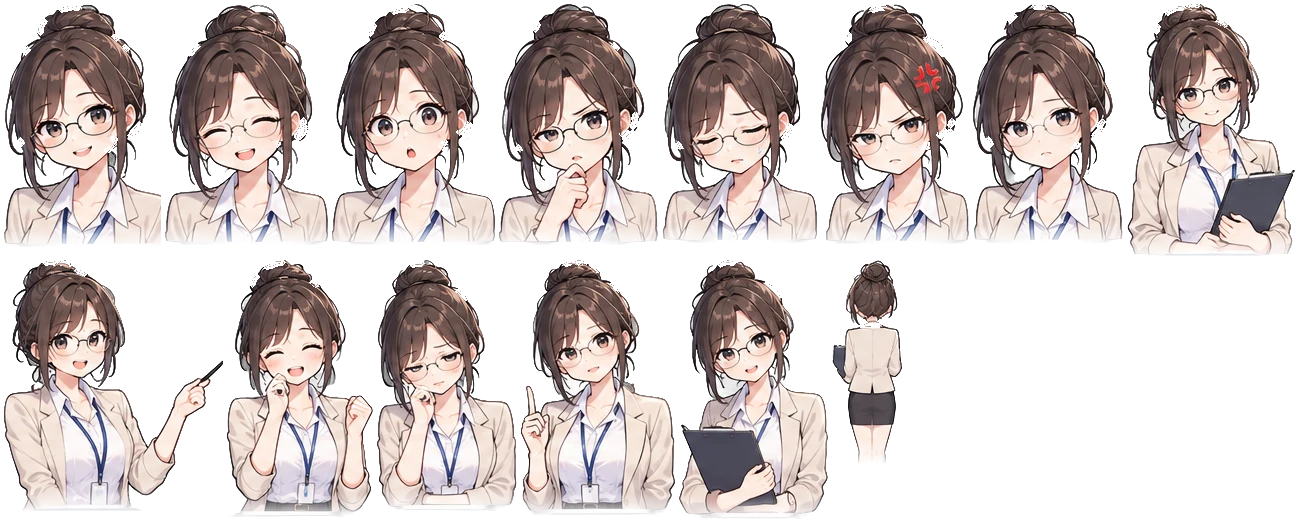
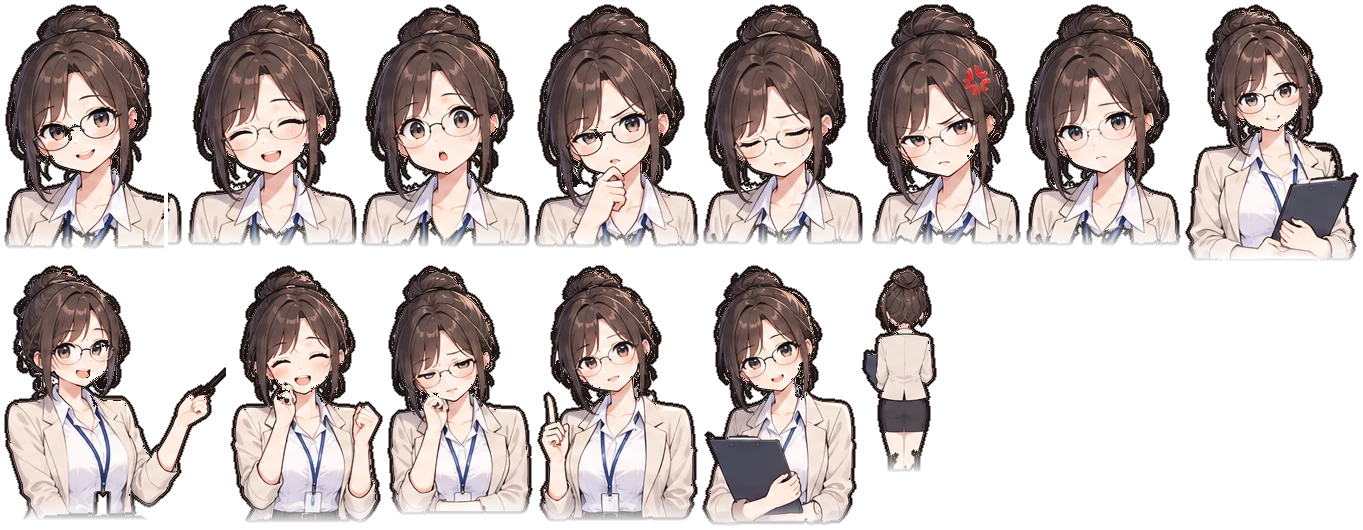
두뇌풀가동: 선생님 스프라이트 누끼 다시(흰 배경 물길 키잉+까만 윤곽선 2px, 갇힌 흰 틈 제거) 14칸 전부, teacher v7·art.js v9 (사장님 2026-09-21 "누끼 깨끗하게", "까만 테두리 있는 거로", "모든 캐릭터 다")

diff --git a/games/mini/fullbrain/play/js/teacher.js b/games/mini/fullbrain/play/js/teacher.js
@@ -1,1 +1,1 @@
-window.FB_TEACHER = {"w": 1299, "h": 523, "frames": {"idle": [4, 4, 157, 243, 72, 76, 121], "smile": [165, 4, 163, 241, 76, 73, 116], "surprise": [332, 4, 163, 241, 74, 79, 118], "think": [499, 4, 159, 241, 71, 74, 118], "shy": [662, 4, 155, 239, 71, 69, 112], "angry": [821, 4, 148, 240, 64, 72, 116], "sad": [973, 4, 150, 239, 66, 69, 111], "grade": [1127, 4, 168, 252, 63, 66, 102], "point": [4, 260, 219, 251, 54, 71, 107], "cheer": [227, 260, 146, 257, 56, 69, 106], "wrong": [377, 260, 140, 251, 43, 66, 99], "next": [521, 260, 154, 255, 53, 68, 103], "explain": [679, 260, 149, 259, 51, 68, 103], "back": [832, 260, 70, 203, 42, 32, 51]}};
+window.FB_TEACHER = {"w": 1363, "h": 530, "frames": {"idle": [4, 4, 160, 245, 73, 80, 128], "smile": [168, 4, 189, 242, 100, 75, 120], "surprise": [361, 4, 169, 243, 78, 76, 120], "think": [534, 4, 165, 244, 74, 77, 124], "shy": [703, 4, 160, 241, 73, 76, 122], "angry": [867, 4, 154, 241, 66, 77, 123], "sad": [1025, 4, 156, 242, 69, 72, 115], "grade": [1185, 4, 174, 257, 65, 68, 107], "point": [4, 265, 222, 255, 56, 67, 108], "cheer": [230, 265, 153, 258, 58, 67, 106], "wrong": [387, 265, 146, 250, 47, 63, 101], "next": [537, 265, 161, 257, 56, 66, 106], "explain": [702, 265, 155, 261, 54, 67, 107], "back": [861, 265, 76, 207, 45, 35, 55]}};

diff --git a/games/mini/fullbrain/play/index.html b/games/mini/fullbrain/play/index.html
@@ -6,7 +6,7 @@
 <meta name="theme-color" content="#2f5d4a">
 <meta name="robots" content="noindex">
 <title>두뇌풀가동</title>
-<link rel="preload" as="image" href="assets/teacher.webp?v=6" fetchpriority="high">
+<link rel="preload" as="image" href="assets/teacher.webp?v=7" fetchpriority="high">
 <style>
 @font-face{font-family:'NG';src:url('fonts/NanumGothic-title.woff2?v=2') format('woff2');font-display:swap}   /* Nanum Gothic ExtraBold (OFL) — 제목·문제 숫자 부분집합 */
 @font-face{font-family:'Ria';src:url('fonts/RiaSans-ExtraBold.woff2') format('woff2');font-display:swap}
@@ -180,9 +180,9 @@ body.touch .ab small{display:none}
 <div class="panel" id="pause"><button class="btn" id="resume">▶</button></div>
 
 <script src="assets/game-home.js" data-top="6" data-left="6" data-fullscreen="1" defer></script>
-<script src="js/teacher.js?v=6"></script>
+<script src="js/teacher.js?v=7"></script>
 <script src="js/audio.js?v=1"></script>
-<script src="js/art.js?v=8"></script>
+<script src="js/art.js?v=9"></script>
 <script src="js/game.js?v=5"></script>
 <script src="/assets/visit.js?v=17" defer></script>
 <script src="/assets/game-events.js?v=2" defer></script>

diff --git a/games/mini/fullbrain/play/js/art.js b/games/mini/fullbrain/play/js/art.js
@@ -115,7 +115,7 @@
   }
 
   // ---------------------------------------------------------------- 선생님(스프라이트 시트 assets/teacher.png, 좌표는 js/teacher.js)
-  const TIMG = new Image(); TIMG.src = 'assets/teacher.webp?v=6';
+  const TIMG = new Image(); TIMG.src = 'assets/teacher.webp?v=7';
   const TF = (window.FB_TEACHER && window.FB_TEACHER.frames) || {};
   const BUST_H = 250;                                             // 상반신 칸들의 기준 높이 — 칸마다 크기가 달라도 같은 배율로 그린다
   let prevName = '', curName = '', fadeT = 1;
